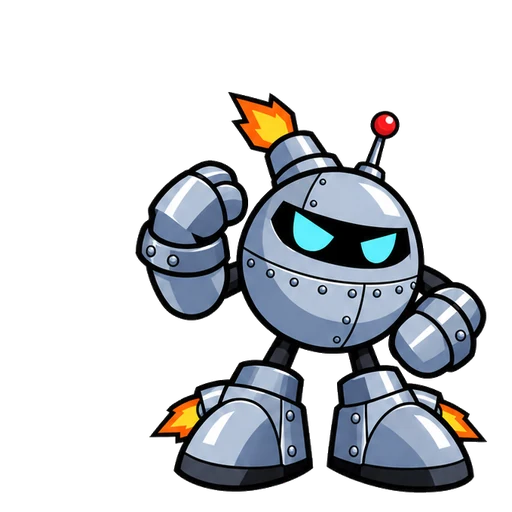
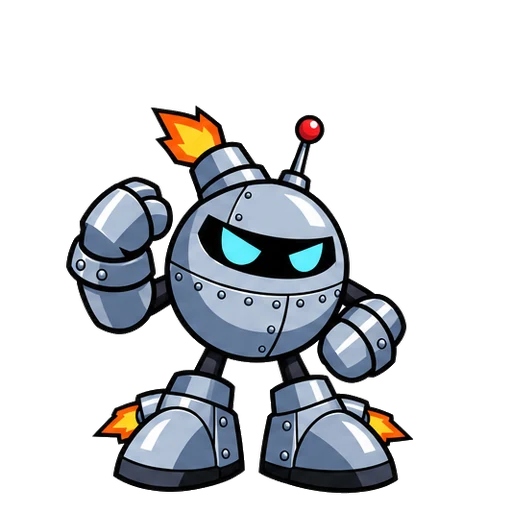
feat: MECHA idle repainted (5 frames)

diff --git a/src/cast/cast.js b/src/cast/cast.js
@@ -380,7 +380,8 @@ export const CAST_FRAMES = {
   // 6 frames: sneaky grin → hands rise → peeks through its fingers → hands drop → the big SPOOK → doubled over laughing
   boo: { n: 6, seq: [[1, 300], [2, 620], [3, 220], [4, 800], [5, 1000]], rest: 1800 },
   // MECHA: ready → red scan line, antenna pinging → ROCKET PUNCH → steam vents, thumbs up ^ ^
-  mecha: { n: 4, seq: [[1, 750], [0, 180], [2, 720], [3, 1150]], rest: 1800 },
+  // 5 frames (the rocket-punch frame ran off its cell, so it was cut): ready → red scan line, antenna pinging → winds up → the punch lands, a spark at the joint → steam vents, thumbs up ^ ^
+  mecha: { n: 5, seq: [[1, 760], [0, 160], [2, 380], [3, 520], [4, 1100]], rest: 1800 },
   // DUD: asleep → snot bubble swells → POP, jolts awake → giant yawn
   // 6 frames: asleep → head droops, bubble swells → POP, jolts awake → giant yawn → snuggles back down
   dud: { n: 6, seq: [[1, 520], [2, 800], [3, 520], [4, 720], [5, 600]], rest: 2200 },
